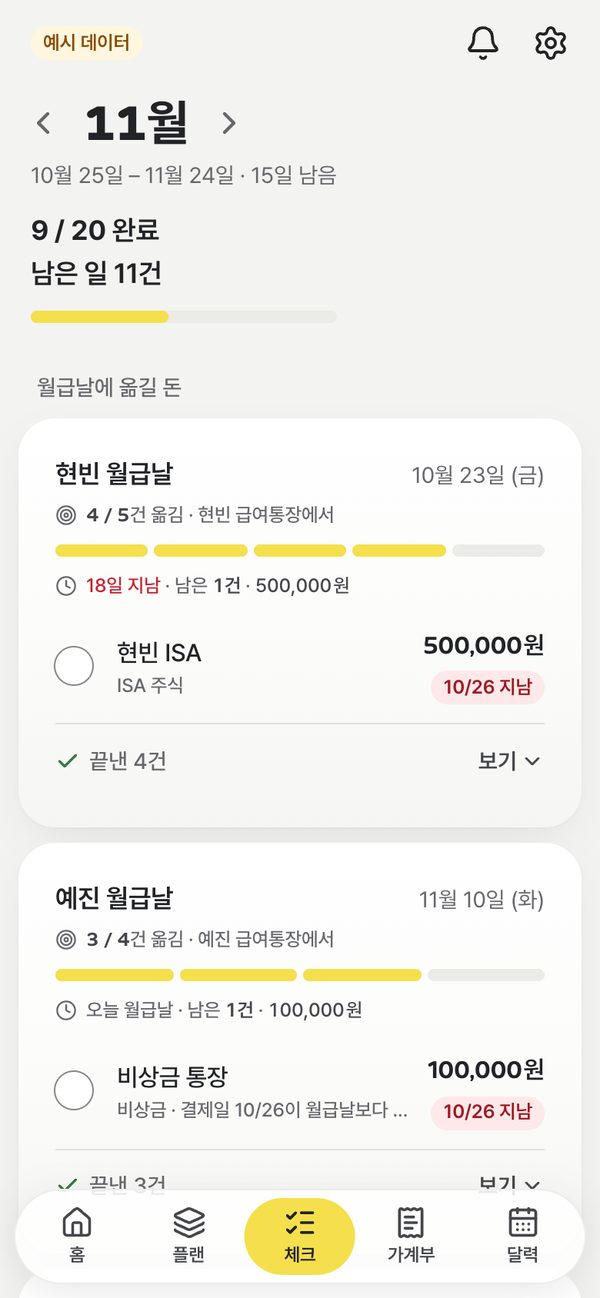
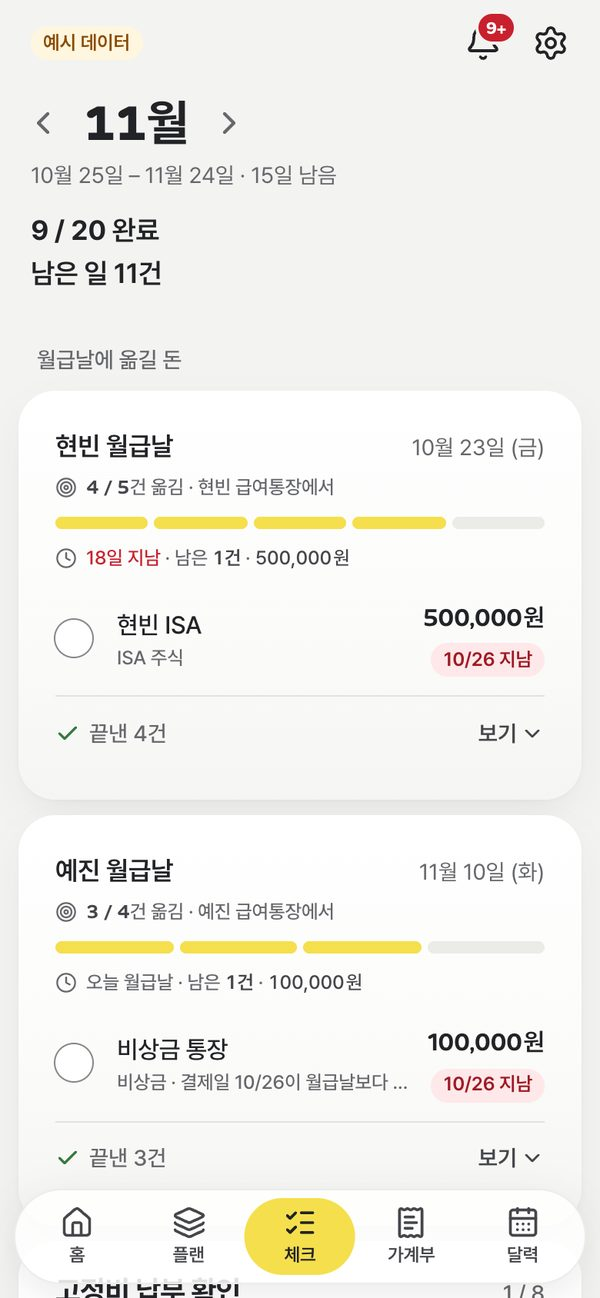
체크 머리 진행 막대 빼기 — 숫자 한 줄로 충분, 글자 폭만큼 짧게 떠서 카드와 줄이 안 맞음
체크 화면 머리(MonthHeader 안)는 글자 폭만큼만 차지해서, 그 아래 TaskMeter 가
199px 정도로 짧게 떠 아래 카드들과 어긋났다. "9 / 20 완료 · 남은 일 11건"만으로
충분하고(숫자로 충분하면 그리지 않는다), 진행 막대는 월급날 카드의 칸 막대가 맡는다.

diff --git a/apps/web/src/app/check/page.tsx b/apps/web/src/app/check/page.tsx
@@ -10,7 +10,6 @@ import { Money } from "@/components/ui";
 import { byUrgency, eventTasks, useTasks, type PaydayGroup, type Task } from "@/components/tasks";
 import { dDay, dateWithDay, monthLabel, shortDate } from "@/lib/format";
 import { TaskRow } from "@/components/TaskRow";
-import { TaskMeter } from "@/components/BudgetCard";
 import { MAX_STEPS, StepTrack } from "@/components/StepTrack";
 import { Celebrate } from "@/components/Celebrate";
 import { MonthClose } from "@/components/MonthClose";
@@ -157,26 +156,23 @@ export default function CheckPage() {
   return (
     <>
       <MonthHeader name="체크">
-        <div className="progress-line">
-          <p className="finding">
-            {left.length === 0 ? (
-              "이번 달 체크를 모두 마쳤어요."
-            ) : (
-              <>
-                <span className="nw">
-                  <strong className="num">
-                    {done} / {tasks.length}
-                  </strong>{" "}
-                  완료
-                </span>{" "}
-                <span className="nw clause">
-                  <span className="sep">· </span>남은 일 {left.length}건
-                </span>
-              </>
-            )}
-          </p>
-          <TaskMeter done={done} total={tasks.length} />
-        </div>
+        <p className="finding">
+          {left.length === 0 ? (
+            "이번 달 체크를 모두 마쳤어요."
+          ) : (
+            <>
+              <span className="nw">
+                <strong className="num">
+                  {done} / {tasks.length}
+                </strong>{" "}
+                완료
+              </span>{" "}
+              <span className="nw clause">
+                <span className="sep">· </span>남은 일 {left.length}건
+              </span>
+            </>
+          )}
+        </p>
       </MonthHeader>
 
       {issues.length > 0 && (

diff --git a/apps/web/src/app/cards.css b/apps/web/src/app/cards.css
@@ -58,11 +58,6 @@
 .budget-foot { display: flex; flex-wrap: wrap; align-items: center; justify-content: space-between; gap: 8px 12px; margin-top: 12px; }
 .budget-foot:empty { display: none; }
 
-/* 체크 화면 머리: 결론 한 줄 + 같은 진행 막대 */
-.progress-line { margin-top: 12px; }
-.progress-line .meter { max-width: 420px; margin: 10px 0 0; }
-.progress-line .finding { margin: 0; }
-
 /* ---------- 칸 나눈 진행 막대 (StepTrack) ---------- */
 
 /* 월급날 카드: 제목 → 메타 줄 → 진행 막대 → 기한 줄 → 할 일 줄 */

diff --git a/CHANGELOG.md b/CHANGELOG.md
@@ -7,7 +7,7 @@
 
 ## 다음 버전
 
-- 숫자가 먼저 보이게 홈을 다시 짰어요. 남은 공동 생활비와 용돈은 반원·링 게이지 대신 **남은 돈을 가장 크게**, 그 아래 예산 대비 가로 막대(검은 눈금이 오늘까지 써도 되는 선), 그다음 상태와 설명을 둬요. 할 일 진행도 "9 / 20 완료"를 먼저 쓰고 같은 막대로 보여 줘요(체크 화면 머리도). 홈 위쪽의 노란 그라데이션 띠와 생활비 카드의 하늘색 바탕은 걷어냈어요. 결제수단은 막대 없이 "● 카드 88%  ● 현금 12%" 한 줄로 비중만 보여 줘요(용돈 카드도 같은 모양).
+- 숫자가 먼저 보이게 홈을 다시 짰어요. 남은 공동 생활비와 용돈은 반원·링 게이지 대신 **남은 돈을 가장 크게**, 그 아래 예산 대비 가로 막대(검은 눈금이 오늘까지 써도 되는 선), 그다음 상태와 설명을 둬요. 할 일 진행도 "9 / 20 완료"를 먼저 쓰고 같은 막대로 보여 줘요(체크 화면 머리는 막대 없이 숫자 한 줄만). 홈 위쪽의 노란 그라데이션 띠와 생활비 카드의 하늘색 바탕은 걷어냈어요. 결제수단은 막대 없이 "● 카드 88%  ● 현금 12%" 한 줄로 비중만 보여 줘요(용돈 카드도 같은 모양).
 - 가계부와 체크도 같은 막대로 맞췄어요. 공동 생활비·두 사람 용돈 줄은 **%를 크게** 쓰고 그 아래 홈과 같은 예산 막대를, 분류별 생활비 막대는 번지는 그라데이션 대신 노랑 한 색(예산 넘으면 빨강, 검은 눈금이 그 분류 예산)으로 그려요. 하루별 지출 막대도 한 색이고, 체크 월급날 카드의 진행은 체크 원·이음선 대신 옮길 돈 하나가 한 칸인 칸 막대예요.
 - "11월 30일에 일정 추가" · "일정 추가" · "분류 추가"처럼 글에 이미 "추가"가 있는 버튼에서 + 그림을 뺐어요.
 - 가계부 "이번 달 기록" 타일 아이콘(가장 많이 쓴 날 · 무지출 연속 · 기록 수 · 저축)도 같은 채운 그림으로 바꿨어요. 새로 설치하면 기본 분류에 **카페·간식**(컵 아이콘)이 있어요 — 이미 쓰는 가계부는 설정 › 생활비 분류와 예산에서 "카페"로 분류를 더하면 컵 아이콘이 붙고, 커피·스타벅스 같은 메모가 그 분류로 들어가요.

diff --git a/docs/design-system/components/BudgetCard/README.md b/docs/design-system/components/BudgetCard/README.md
@@ -28,7 +28,8 @@
 - 움직임 줄이기 설정이면 끝 값을 바로 보여 줍니다.
 
 ## 할 일 진행
-- 홈 "이번 달 할 일" 카드와 체크 화면 머리는 **숫자 "9 / 20 완료"를 먼저** 쓰고 그 아래 같은 막대(`TaskMeter`, 8px, 이정표 없음)를 둡니다. 체크 추가·해제 모두 `dur-value`·`ease-value`로 이어 갑니다. 구현을 바꿀 때는 [공통 움직임 유지와 회귀 검증](../../README.md#움직임-유지와-회귀-검증)을 따릅니다.
+- 홈 "이번 달 할 일" 카드는 **숫자 "9 / 20 완료"를 먼저** 쓰고 그 아래 같은 막대(`TaskMeter`, 8px, 이정표 없음)를 둡니다. 체크 추가·해제 모두 `dur-value`·`ease-value`로 이어 갑니다. 구현을 바꿀 때는 [공통 움직임 유지와 회귀 검증](../../README.md#움직임-유지와-회귀-검증)을 따릅니다.
+- 체크 화면 머리(카드 밖, 글자 폭만큼만 차지)는 막대를 두지 않고 "9 / 20 완료 · 남은 일 11건" 한 줄만 둡니다. 막대가 글자 폭에 맞춰 짧게 떠서 아래 카드들과 줄이 맞지 않고, 숫자만으로 충분합니다. 진행 막대는 월급날 카드 안의 칸 막대가 맡습니다.
 
 ## 쓰는 쪽이 줄 것
 - 버킷, 예산, 쓴 돈, 오늘까지 예상 금액, 남은 날 수, 결제 수단별 합계

diff --git a/docs/design-system/README.md b/docs/design-system/README.md
@@ -128,7 +128,7 @@
 | 숫자의 뜻 | 우리 화면 | 모양 |
 |---|---|---|
 | 예산 중 얼마 썼나 (이번 달 지출) | 남은 공동 생활비, 용돈, 분류별 예산 | 큰 숫자(남은 돈) + 예산 대비 가로 막대(오늘 눈금) |
-| 전체 중 몇 개 끝냈나 (진행) | 이번 달 할 일, 체크 머리, 월급날 옮길 돈 | 큰 숫자 "9 / 20 완료" + 진행 막대(단계가 적으면 칸 막대) |
+| 전체 중 몇 개 끝냈나 (진행) | 이번 달 할 일, 월급날 옮길 돈 | 큰 숫자 "9 / 20 완료" + 진행 막대(단계가 적으면 칸 막대). 카드 밖 화면 머리(체크)는 숫자 한 줄만 |
 | 지금 값과 지난 비교 | 누적 지출, 지난주 쓴 돈 | 큰 숫자 + 전과 비교 한 줄(+ 흐름이 뜻 있으면 선 그래프) |
 | 날마다 바뀐 값 | 하루별 지출 | 세로 막대 한 색 |
 | 전체를 나눈 몫 | 월급이 나뉘는 곳 | 큰 숫자(수입) + 한 줄 쌓은 막대 + 금액 목록 |
